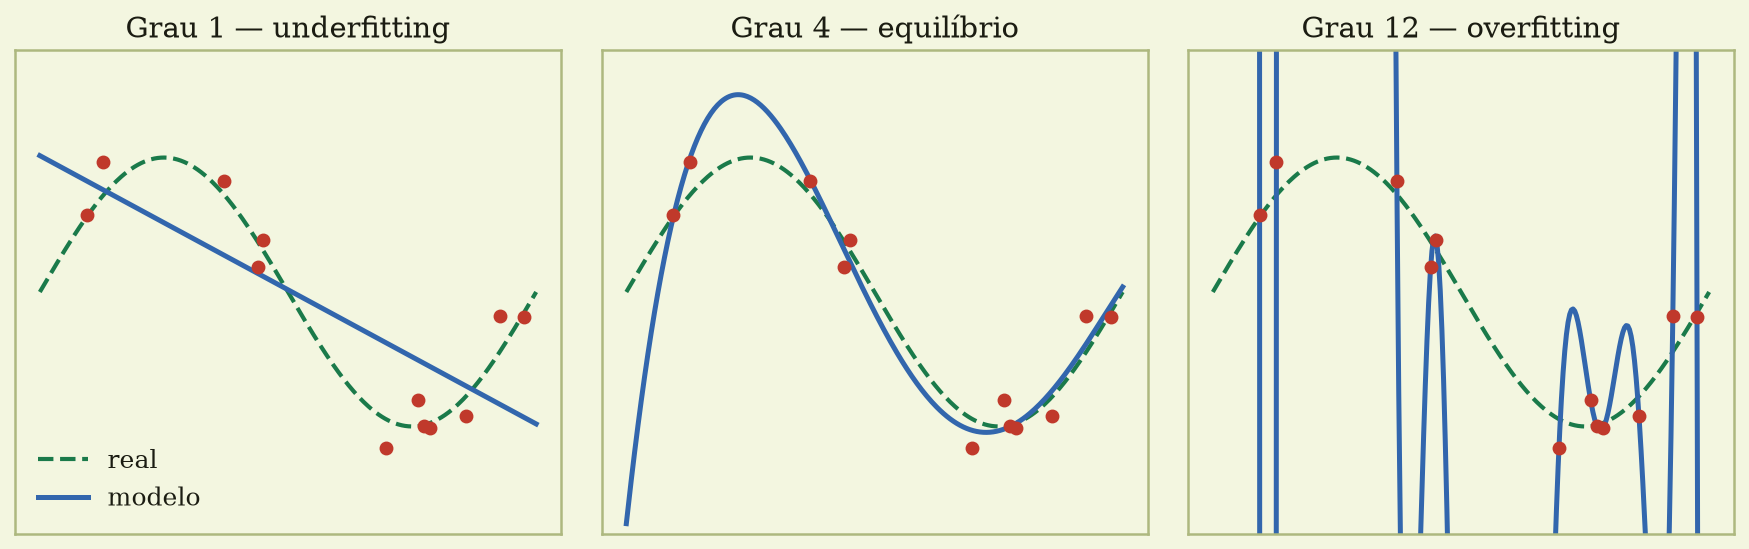
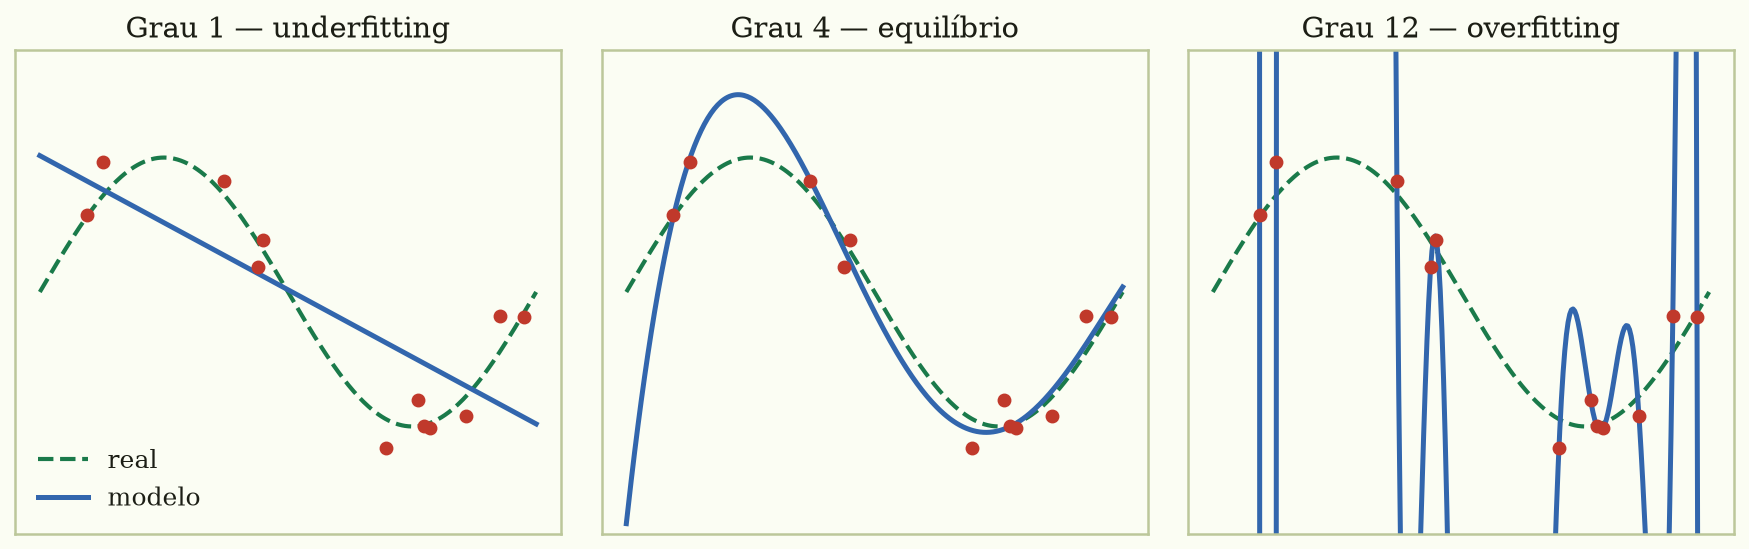
Adota o esquema do GitBook de referência: fundo claro + primária yellowgreen
Inspirado em lmdm.gitbook.io/docking (primária #7E9603 claro / #C6DB25
escuro). Substitui os fundos ervilha saturados por neutros quase brancos
com leve tom verde, e promove o yellowgreen a cor PRIMÁRIA (links, item
ativo, sublinhado de títulos, barras dos slides), aposentando o azul de
acento. No escuro, a primária é a lima #C6DB25.

- style.css: paleta :root/[data-theme=dark] + hovers e code block
- widgets.js: cores de canvas (claro/escuro)
- slides (fundamentos + template): primária verde, fundos claros
- matplotlib (figuras + notebooks): fundo quase branco (dados seguem azul/vermelho)

Figuras, notebooks e site regenerados; verificado no navegador.

Claude-Session: https://claude.ai/code/session_01S8fyf7kcVcyGHjq9KvR8os

diff --git a/assets/style.css b/assets/style.css
@@ -5,46 +5,46 @@
 *, *::before, *::after { box-sizing: border-box; margin: 0; padding: 0; }
 
 :root {
-  --bg: #e7ecc2;
-  --paper: #f3f6e0;
-  --ink: #1b1c12;
-  --muted: #66693f;
-  --line: #cbd598;
-  --line-soft: #dae1af;
-  --accent: #1b1c12;
-  --sidebar-bg: #dfe6b4;
-  --sidebar-hover: #d6dea6;
-  --sidebar-active: #ccd795;
-  --nav-text: #43492a;
-  --prose-soft: #464c2d;
-  --code-bg: #dce2b2;
-  --th-bg: #e1e7b8;
-  --range-track: #b4bf80;
-  --link: #1f5fa6;
-  --brand: #e1f50a;        /* acento de marca (chartreuse) */
-  --brand-ink: #2b3300;    /* texto legível sobre o brand */
+  --bg: #eef3e0;           /* página: verde bem claro (quase branco) */
+  --paper: #fbfdf3;        /* conteúdo/cards: quase branco */
+  --ink: #1c1e15;
+  --muted: #6b7050;
+  --line: #d7dfbf;
+  --line-soft: #e6ecd4;
+  --accent: #1c1e15;
+  --sidebar-bg: #f3f7e8;
+  --sidebar-hover: #e9f0d7;
+  --sidebar-active: #e0e9c8;
+  --nav-text: #40462c;
+  --prose-soft: #444a30;
+  --code-bg: #eef3df;
+  --th-bg: #ebf1db;
+  --range-track: #c9d5a0;
+  --link: #5f7300;         /* links: oliva legível */
+  --brand: #7e9603;        /* acento de marca (yellowgreen/oliva) */
+  --brand-ink: #ffffff;    /* texto sobre o brand */
   --sidebar-w: 300px;
 }
 
 [data-theme="dark"] {
-  --bg: #14150c;
-  --paper: #1f2113;
-  --ink: #ebedd6;
-  --muted: #a4a87e;
-  --line: #383c26;
-  --line-soft: #2a2d1b;
-  --accent: #ebedd6;
-  --sidebar-bg: #191b0f;
-  --sidebar-hover: #272b16;
-  --sidebar-active: #31371b;
-  --nav-text: #c8ceac;
-  --prose-soft: #c3c9a4;
-  --code-bg: #2e331c;
-  --th-bg: #262b16;
-  --range-track: #474f30;
-  --link: #6fa8dc;
-  --brand: #e1f50a;
-  --brand-ink: #2b3300;
+  --bg: #17180f;
+  --paper: #1e1f16;
+  --ink: #ebedd8;
+  --muted: #9aa07e;
+  --line: #383a2a;
+  --line-soft: #2a2c1e;
+  --accent: #ebedd8;
+  --sidebar-bg: #1a1b11;
+  --sidebar-hover: #26281a;
+  --sidebar-active: #30341d;
+  --nav-text: #c7cdac;
+  --prose-soft: #c3c9a6;
+  --code-bg: #24261a;
+  --th-bg: #26281a;
+  --range-track: #4a5030;
+  --link: #aecb1f;         /* links: lima sobre escuro */
+  --brand: #c6db25;        /* acento de marca no escuro (lima) */
+  --brand-ink: #1d1d1d;
 }
 
 body {
@@ -187,7 +187,7 @@ a { color: var(--ink); }
 }
 .topic blockquote p:last-child { margin: 0; }
 .topic code { font-family: 'Courier New', monospace; background: var(--code-bg); padding: 1px 5px; border-radius: 3px; font-size: 0.88em; }
-.topic pre { background: #2a2c18; color: #e7ecc2; border-radius: 6px; padding: 14px 16px; margin: 1rem 0; overflow-x: auto; font-size: 0.85rem; }
+.topic pre { background: #23261a; color: #eef3df; border-radius: 6px; padding: 14px 16px; margin: 1rem 0; overflow-x: auto; font-size: 0.85rem; }
 .topic pre code { background: transparent; padding: 0; color: inherit; }
 .topic table { border-collapse: collapse; margin: 1rem 0; font-size: 0.92rem; width: 100%; }
 .topic img { max-width: 100%; height: auto; display: block; margin: 1.25rem auto; border: 1px solid var(--line); border-radius: 6px; background: var(--paper); }
@@ -220,7 +220,7 @@ a { color: var(--ink); }
 .topic details > summary::-webkit-details-marker { display: none; }
 .topic details > summary::before { content: "▸ "; }
 .topic details[open] > summary::before { content: "▾ "; }
-.topic details > summary:hover { color: #16335c; }
+.topic details > summary:hover { color: #445200; }
 .topic details > *:not(summary):first-of-type { margin-top: 0.2rem; }
 .topic details p:last-child { margin-bottom: 0.6rem; }
 
@@ -327,12 +327,12 @@ input[type=range]::-moz-range-thumb { width: 16px; height: 16px; border-radius: 
 .theme-icon::before { content: "🌙"; }
 [data-theme="dark"] .theme-icon::before { content: "☀\FE0E"; }
 
-[data-theme="dark"] .topic details > summary:hover { color: #aecbed; }
-[data-theme="dark"] .topic pre { background: #10110a; }
+[data-theme="dark"] .topic details > summary:hover { color: #cfe06a; }
+[data-theme="dark"] .topic pre { background: #12130b; }
 
 /* logo do IBCCF (texto escuro) precisa de um fundo claro no tema escuro */
 [data-theme="dark"] .footer-logo {
-  background: #e7ecc2;
+  background: #eef3e0;
   padding: 6px 10px;
   border-radius: 6px;
 }

diff --git a/fundamentos_slides.html b/fundamentos_slides.html
@@ -10,23 +10,23 @@
 <style>
 /* ── Paleta ───────────────────────────────────────────────────────────────── */
 :root {
-  --bg:       #E7ECC2;   /* fundo do viewport       */
-  --paper:    #F3F6E0;   /* fundo dos slides        */
-  --ink:      #1B1C12;   /* texto principal         */
-  --blue:     #3266AD;   /* cor primária            */
+  --bg:       #EEF3E0;   /* fundo do viewport       */
+  --paper:    #FBFDF3;   /* fundo dos slides        */
+  --ink:      #1C1E15;   /* texto principal         */
+  --blue:     #5F7300;   /* cor primária            */
   --red:      #C0392B;   /* destaque vermelho       */
   --green:    #1A7A4A;   /* destaque verde          */
-  --muted:    #66693F;   /* texto secundário        */
-  --line:     #CBD598;   /* bordas                  */
-  --tint:     #ECF1F8;   /* fundo de caixas de dica */
+  --muted:    #6B7050;   /* texto secundário        */
+  --line:     #D7DFBF;   /* bordas                  */
+  --tint:     #EEF3DF;   /* fundo de caixas de dica */
   --blue-f:   #DCE7F4;   /* fill azul claro         */
   --red-f:    #F6DEDB;   /* fill vermelho claro     */
   --green-f:  #DCEFE4;   /* fill verde claro        */
-  --grey-f:   #E1E7B8;   /* fill cinza claro        */
+  --grey-f:   #EBF1DB;   /* fill cinza claro        */
   --orange-f: #FDEAD0;
   --purple-f: #E8DAEF;
   --yellow-f: #FCF3CF;
-  --brand:    #E1F50A;   /* acento de marca         */
+  --brand:    #7E9603;   /* acento de marca         */
 }
 
 /* ── Base reveal ──────────────────────────────────────────────────────────── */
@@ -181,7 +181,7 @@
 .tbl { width: 100%; border-collapse: collapse; font-size: 16.5px; }
 .tbl th { background: var(--ink); color: var(--paper); padding: 8px 13px; font-weight: bold; text-align: left; font-family: 'Georgia', serif; }
 .tbl td { padding: 7px 13px; border-bottom: 1px solid var(--line); vertical-align: top; line-height: 1.35; }
-.tbl tr:nth-child(odd)  td { background: #E1E7B8; }
+.tbl tr:nth-child(odd)  td { background: #EBF1DB; }
 .tbl tr:nth-child(even) td { background: var(--paper); }
 .ok  { color: var(--green); font-weight: bold; }
 .no  { color: var(--red);   font-weight: bold; }

diff --git a/template_slides.html b/template_slides.html
@@ -10,23 +10,23 @@
 <style>
 /* ── Paleta ───────────────────────────────────────────────────────────────── */
 :root {
-  --bg:       #E7ECC2;   /* fundo do viewport       */
-  --paper:    #F3F6E0;   /* fundo dos slides        */
-  --ink:      #1B1C12;   /* texto principal         */
-  --blue:     #3266AD;   /* cor primária            */
+  --bg:       #EEF3E0;   /* fundo do viewport       */
+  --paper:    #FBFDF3;   /* fundo dos slides        */
+  --ink:      #1C1E15;   /* texto principal         */
+  --blue:     #5F7300;   /* cor primária            */
   --red:      #C0392B;   /* destaque vermelho       */
   --green:    #1A7A4A;   /* destaque verde          */
-  --muted:    #66693F;   /* texto secundário        */
-  --line:     #CBD598;   /* bordas                  */
-  --tint:     #ECF1F8;   /* fundo de caixas de dica */
+  --muted:    #6B7050;   /* texto secundário        */
+  --line:     #D7DFBF;   /* bordas                  */
+  --tint:     #EEF3DF;   /* fundo de caixas de dica */
   --blue-f:   #DCE7F4;   /* fill azul claro         */
   --red-f:    #F6DEDB;   /* fill vermelho claro     */
   --green-f:  #DCEFE4;   /* fill verde claro        */
-  --grey-f:   #E1E7B8;   /* fill cinza claro        */
+  --grey-f:   #EBF1DB;   /* fill cinza claro        */
   --orange-f: #FDEAD0;
   --purple-f: #E8DAEF;
   --yellow-f: #FCF3CF;
-  --brand:    #E1F50A;   /* acento de marca         */
+  --brand:    #7E9603;   /* acento de marca         */
 }
 
 /* ── Base reveal ──────────────────────────────────────────────────────────── */
@@ -184,7 +184,7 @@
 .tbl { width: 100%; border-collapse: collapse; font-size: 16.5px; }
 .tbl th { background: var(--ink); color: var(--paper); padding: 8px 13px; font-weight: bold; text-align: left; font-family: 'Georgia', serif; }
 .tbl td { padding: 7px 13px; border-bottom: 1px solid var(--line); vertical-align: top; line-height: 1.35; }
-.tbl tr:nth-child(odd)  td { background: #E1E7B8; }
+.tbl tr:nth-child(odd)  td { background: #EBF1DB; }
 .tbl tr:nth-child(even) td { background: var(--paper); }
 .ok  { color: var(--green); font-weight: bold; }
 .no  { color: var(--red);   font-weight: bold; }

diff --git a/assets/widgets.js b/assets/widgets.js
@@ -23,8 +23,8 @@ function rngNormal(rng) {
 
 // ---------- paleta (idêntica ao style.css) ----------
 const PAL = {
-  ink: '#1b1c12', blue: '#3266ad', red: '#c0392b', green: '#1a7a4a',
-  muted: '#66693f', line: '#cbd598', paper: '#f3f6e0',
+  ink: '#1c1e15', blue: '#3266ad', red: '#c0392b', green: '#1a7a4a',
+  muted: '#6b7050', line: '#d7dfbf', paper: '#fbfdf3',
   blueF: '#dce7f4', redF: '#f6dedb', greenF: '#dcefe4'
 };
 // no tema escuro, texto/eixos precisam clarear
@@ -32,10 +32,10 @@ function pal() {
   const dark = document.documentElement.getAttribute('data-theme') === 'dark';
   return {
     ...PAL,
-    ink: dark ? '#ebedd6' : PAL.ink,
-    muted: dark ? '#a4a87e' : PAL.muted,
-    line: dark ? '#474f30' : PAL.line,
-    paper: dark ? '#1f2113' : PAL.paper,
+    ink: dark ? '#ebedd8' : PAL.ink,
+    muted: dark ? '#9aa07e' : PAL.muted,
+    line: dark ? '#4a5030' : PAL.line,
+    paper: dark ? '#1e1f16' : PAL.paper,
   };
 }
 

diff --git a/tools/gerar_figuras.py b/tools/gerar_figuras.py
@@ -21,23 +21,23 @@ from pathlib import Path
 BASE = Path(__file__).parent.parent
 
 # ── Paleta ───────────────────────────────────────────────────────────────────
-INK    = "#1b1c12"
-PAPER  = "#f3f6e0"
+INK    = "#1c1e15"
+PAPER  = "#fbfdf3"
 BLUE   = "#3266ad"
 RED    = "#c0392b"
 GREEN  = "#1a7a4a"
-MUTED  = "#66693f"
+MUTED  = "#6b7050"
 BLUEF  = "#dce7f4"
 REDF   = "#f6dedb"
 GREENF = "#dcefe4"
-GREYF  = "#e1e7b8"
+GREYF  = "#ebf1db"
 
 plt.rcParams.update({
     "font.family": "serif", "font.size": 18,
-    "axes.edgecolor": "#adb87f", "axes.linewidth": 1.2,
+    "axes.edgecolor": "#bcc79a", "axes.linewidth": 1.2,
     "axes.titlesize": 20, "figure.facecolor": PAPER,
     "axes.facecolor": PAPER, "savefig.facecolor": PAPER,
-    "axes.grid": True, "grid.color": "#d7deb2", "grid.linewidth": 0.7,
+    "axes.grid": True, "grid.color": "#e4ead0", "grid.linewidth": 0.7,
     "xtick.color": MUTED, "ytick.color": MUTED,
     "axes.labelcolor": INK, "text.color": INK,
     "legend.fontsize": 17, "axes.labelsize": 18,

diff --git a/tools/gerar_notebooks.py b/tools/gerar_notebooks.py
@@ -23,14 +23,14 @@ import pandas as pd
 import matplotlib.pyplot as plt
 
 # Paleta do curso (idêntica ao site)
-INK, PAPER = "#1b1c12", "#f3f6e0"
-BLUE, RED, GREEN, MUTED = "#3266ad", "#c0392b", "#1a7a4a", "#66693f"
+INK, PAPER = "#1c1e15", "#fbfdf3"
+BLUE, RED, GREEN, MUTED = "#3266ad", "#c0392b", "#1a7a4a", "#6b7050"
 
 plt.rcParams.update({
     "font.family": "serif", "font.size": 12,
     "figure.facecolor": PAPER, "axes.facecolor": PAPER,
-    "axes.edgecolor": "#adb87f", "axes.grid": True,
-    "grid.color": "#d7deb2", "grid.linewidth": 0.7,
+    "axes.edgecolor": "#bcc79a", "axes.grid": True,
+    "grid.color": "#e4ead0", "grid.linewidth": 0.7,
     "axes.labelcolor": INK, "text.color": INK,
     "xtick.color": MUTED, "ytick.color": MUTED,
 })
